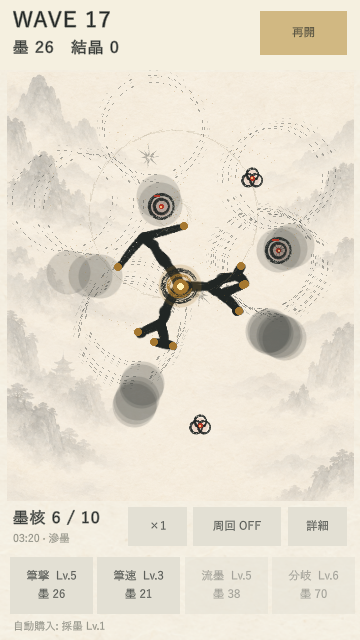
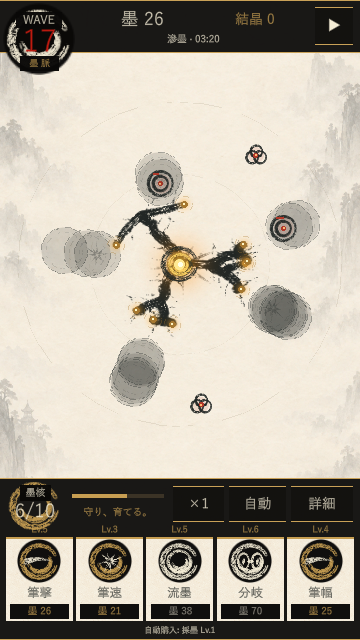
fix: align portrait brush attacks with battlefield coordinates

diff --git a/UnitySandbox/Assets/BokumyakuPrototype/Presentation/BokumyakuGame.Portrait.cs b/UnitySandbox/Assets/BokumyakuPrototype/Presentation/BokumyakuGame.Portrait.cs
@@ -24,10 +24,8 @@ namespace Bokumyaku.Presentation
                 return;
             }
             Rect field = new Rect(0, 62, 440, height - 260);
-            // Clip branch textures and rotated brush effects before drawing the fixed controls.
-            GUI.BeginGroup(field);
-            try { DrawField(new Rect(0, 0, field.width, field.height), true); }
-            finally { GUI.EndGroup(); }
+            // Draw in the same absolute GUI space as rotated strokes. Opaque HUD panels mask the top/bottom.
+            DrawField(field, true);
             DrawBattleHud(height);
             if (portraitDetails)
             {

diff --git a/docs/STATE.md b/docs/STATE.md
@@ -10,11 +10,11 @@
 - 初週目標案は実戦60分/日で初日40〜55、7日目80〜110Wave（未検証）。分割は計画のみ。
 
 ## 直近結果
-- 検証区分: ゲーム試作の限定確認（360×640強化札5種のGUI購入と墨不足拒否6/6。実際の戦闘Tickで墨獲得）。全テスト/Windowsビルド/実機測定なし。
+- 検証区分: ゲーム試作の限定確認（攻撃座標修正のUnityコンパイル、360×640の全6武器実Update/画面確認）。全テスト/Windowsビルド/実機測定なし。
 - 隔離セーブに100結晶を与え、画面クリックで祖墨Lv.1/残92結晶を確認。再読込後も保持。研究ボタン高32→44、敵図鑑のボス説明を八棘へ修正。現在Console error0/warning0。
 - 画面と手順はBOKUMYAKU_PROCEDURAL_INK.md。Play停止・一時GameView設定復元済み。最新Windowsビルドはv0.11。
 
 ## 次の一手
-1. 参考画像へ近づける美術仕上げを優先。Wave小文字は墨黒の下地で可読性修正済み、UIの筆縁と戦場の枝密度、強化札5種の購入/墨不足6確認は合格済み。その後SE検証。記録ありの縦画面と攻撃筆跡の位置整合を確認。密集時のHP重なりは残件（核と敵の色/形は識別可能）。
+1. 参考画像へ近づける美術仕上げを優先。Wave小文字は墨黒の下地で可読性修正済み、UIの筆縁と戦場の枝密度、強化札5種の購入/墨不足6確認は合格済み。その後SE検証。記録ありの縦画面と攻撃筆跡の位置ずれは座標統一で修正し6武器表示確認済み。密集時のHP重なりは残件（核と敵の色/形は識別可能）。
 2. BGMループ/聴感評価は未確認。実機タップ/ノッチ/性能、完成美術は未確認。
 3. 初週バランスを調整（初回5〜8分/研究2〜3周、最大3案）。長期曲線は再探索しない。

diff --git a/docs/BATTLE_UI_ART_DIRECTION.md b/docs/BATTLE_UI_ART_DIRECTION.md
@@ -30,3 +30,6 @@ Wave/墨脈/墨核の小文字の背後に局所的な墨黒面を置く。360×
 ## 強化札の購入検証（2026-10-23）
 5枚の札を各々クリックし、対応する強化Lv+1と価格分の墨減算を確認。墨0で購入が成立しないことも確認し6/6合格。初回の墨だけを改変した試験は保存整合性検査に拒否されたため破棄し、各札ごとにseed42/手動構成を開始し必要額まで通常Tickを進める方式へ修正した。通常セーブと商品コードは変更なし。
 限定検証: 360×640隔離Play、GUI MouseDown/Up。evidence/ink-card-purchases.json。再現はInkCheck.Arm→CardCheck.Run→JSON完了→停止→Cleanup。実機タップ/最大Lv/保存復帰全条件の合格ではない。
+
+## 攻撃座標の統一（2026-10-23）
+縦戦場のGUI.BeginGroupによる局所原点と、GUI.matrixの回転座標が食い違い、筆跡が枝先から離れていた。戦場を絶対GUI座標へ統一。上下の不透明HUDで操作領域を覆い、左右は画面端で制限する。6武器の実Updateを再実行し、点墨/貫筆/払い/共鳴が枝先から敵へ描かれること、円相/滲墨と操作領域の表示を目視確認。contrast-*.png/jsonを更新。ゲーム判定変更なし。Play停止/表示復元済み。限定画面確認であり実機/全テストは未実施。
